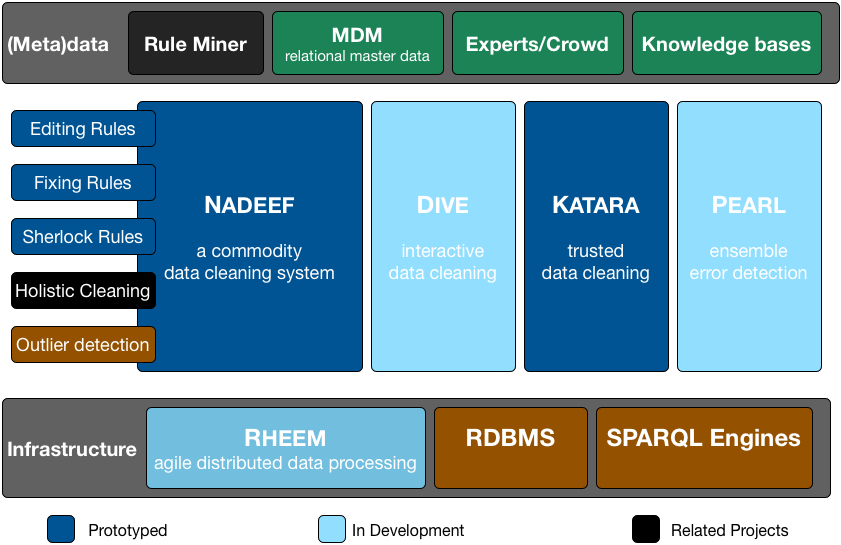
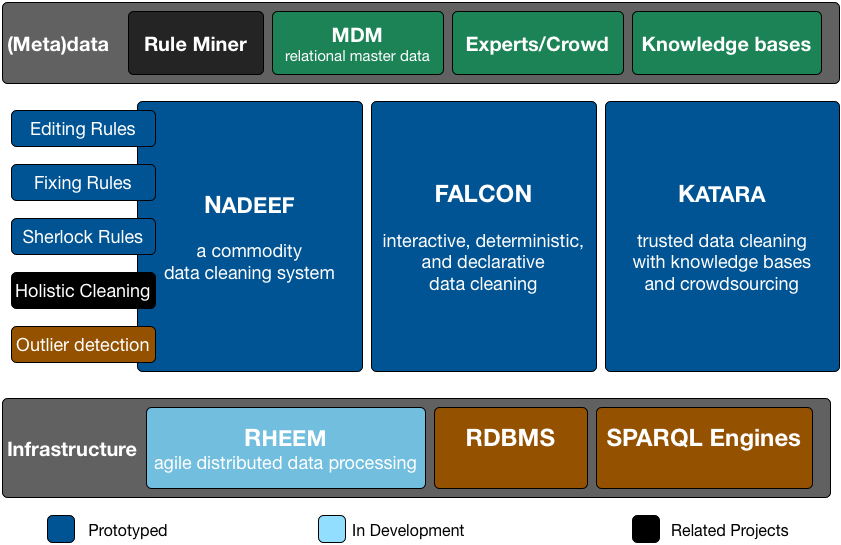
add FALCON

Changed region(s): [[0.4328, 0.1872, 1.0, 0.6862]]

diff --git a/dcprojects/dive.html b/dcprojects/dive.html
@@ -6,7 +6,7 @@
 -->
 <html>
 	<head>
-		<title>DIVE</title>
+		<title>FALCON</title>
 		<meta http-equiv="content-type" content="text/html; charset=utf-8" />
 		<meta name="description" content="" />
 		<meta name="keywords" content="" />
@@ -40,7 +40,7 @@
 					
 				<!-- Logo -->
 					<div id="logo">
-						<h1><a href="#">DIVE</a></h1>
+						<h1><a href="#">FALCON</a></h1>
 						<span style="color:black">An interactive data cleaning system</span>
 					</div>
 				
@@ -53,7 +53,7 @@
 							<li><a href="srules.html">Sherlock Rules</a></li>
 							<li><a href="erules.html">Editing Rules</a></li>
 							<li><a href="currency.html">Data Currency</a></li>
-							<li class="active"><a href="dive.html">DIVE</a></li>
+							<li class="active"><a href="dive.html">FALCON</a></li>
 							<li><a href="resources.html">Resources</a></li>
 						</ul>	
 					</nav>
@@ -61,25 +61,36 @@
 		</div>
 	<!-- Header -->
 			
-	<!-- Main -->
+		<!-- Main -->
 		<div id="main">
 			<div class="container">
 				<div class="row">
-
 					<!-- Content -->
-						<div id="content" class="12u skel-cell-important">
-							<section>
-								<header>
-									<h2>Under Construction</h2>
-								</header>
-							</section>
-						</div>
-					<!-- /Content -->
-						
-				</div>
-			
+					<div id="content" class="12u skel-cell-important">
+						<section>
+							<header>
+								<h2>Abstract</h2>
+							</header>
+							<p>Falcon is an interactive, deterministic, and declarative data cleaning system, which uses SQL update (SQLU) queries as the language to repair data. Falcon does not rely on the existence of a set of pre-defined data quality rules. On the contrary, it encourages users to explore the data, identify possible problems, and make updates to fix them. Bootstrapped by one user update, Falcon guesses a set of possible SQL update queries that can be used to repair the data. The main technical challenge addressed in this work consists in finding a set of SQL update queries that is minimal in size and at the same time fixes the largest number of errors in the data. We formalize this problem as a search in a lattice-shaped space. To guarantee that the chosen updates are semantically correct, FALCON navigates the lattice by interacting with users to gradually validate the set of SQL update queries. Besides using traditional one-hop based traverse algorithms (e.g., BFS or DFS), we describe novel multi-hop search algorithms such that Falcon can dive over the lattice and conduct the search efficiently. Our novel search strategy is coupled with a number of optimization techniques to further prune the search space and efficiently maintain the lattice. </p>
+						</section>
+						<section>
+							<p>More examples will be provided later. At this moment please find more details from the paper.</p>				
+						</section>
+						<section>
+							<header>
+								<h2>Publications</h2>
+							</header>
+							<p>
+								<br><b><i>Interactive and Deterministic Data Cleaning: A Tossed Stone Raises a Thousand Ripples </i></b>
+								<br><font color="blue">ACM SIGMOD Conference on Management of Data (SIGMOD), San Francisco, USA, 2016 </font>
+								<br><i>Jian He, Enzo Veltri, Donatello Santoro, Guoliang Li, Giansalvatore Mecca, Paolo Papotti, and Nan Tang</i>	
+							</p>
+						</section>
+					</div>
+					<!-- /Content -->						
+				</div>			
 			</div>
 		</div>
-	<!-- Main -->
+		<!-- Main -->
 	</body>
 </html>

diff --git a/dcprojects/index.html b/dcprojects/index.html
@@ -56,7 +56,7 @@
 					<li><a href="srules.html">Sherlock Rules</a></li>
 					<li><a href="erules.html">Editing Rules</a></li>
 					<li><a href="currency.html">Data Currency</a></li>
-					<li><a href="dive.html">DIVE</a></li>
+					<li><a href="dive.html">FALCON</a></li>
 					<li><a href="resources.html">Resources</a></li>
 				</ul>
 			</nav>
@@ -88,8 +88,9 @@
 							<h2>Short Description</h2> 
 						</header>
 						<p><b>NADEEF</b> is a data cleaning platform, which abstracts a set of programming APIs such that heterogeneous data quality rules (<i>e.g.,</i> conditional functional dependencies, editing rules and sherlock rules) can be implememted in a homogeneous way. NADEEF also provides a runtime execution engine to detect data violations. We also provide a graphical HTML5 user interface to help users navigate and understand their data in order to improve the rule quality.</p>
+						<p><b>FALCON</b> is an interactive, deterministic, and declarative data cleaning system.</p>
 						<p><b>KATARA</b> is a trusted data cleaning system powered by knowledge bases and crowdsourcing.</p>
-						<p><b>DIVE</b> is an interactive data cleaning.</p>
+						
 
 						<br /><br /><br />
 						<div class="aligncenter">

diff --git a/dcprojects/currency.html b/dcprojects/currency.html
@@ -52,7 +52,7 @@
 						<li><a href="srules.html">Sherlock Rules</a></li>
 						<li><a href="erules.html">Editing Rules</a></li>
 						<li class="active"><a href="currency.html">Data Currency</a></li>
-						<li><a href="dive.html">DIVE</a></li>
+						<li><a href="dive.html">FALCON</a></li>
 						<li><a href="resources.html">Resources</a></li>
 					</ul>
 				</nav>

diff --git a/dcprojects/erules.html b/dcprojects/erules.html
@@ -53,7 +53,7 @@
 						<li><a href="srules.html">Sherlock Rules</a></li>
 						<li class="active"><a href="erules.html">Editing Rules</a></li>
 						<li><a href="currency.html">Data Currency</a></li>
-						<li><a href="dive.html">DIVE</a></li>
+						<li><a href="dive.html">FALCON</a></li>
 						<li><a href="resources.html">Resources</a></li>
 					</ul>
 				</nav>

diff --git a/dcprojects/resources.html b/dcprojects/resources.html
@@ -53,7 +53,7 @@
 						<li><a href="srules.html">Sherlock Rules</a></li>
 						<li><a href="erules.html">Editing Rules</a></li>
 						<li><a href="currency.html">Data Currency</a></li>
-						<li><a href="dive.html">DIVE</a></li>
+						<li><a href="dive.html">FALCON</a></li>
 						<li class="active"><a href="resources.html">Resources</a></li>
 					</ul>
 				</nav>

diff --git a/dcprojects/srules.html b/dcprojects/srules.html
@@ -51,7 +51,7 @@
 						<li class="active"><a href="srules.html">Sherlock Rules</a></li>
 						<li><a href="erules.html">Editing Rules</a></li>
 						<li><a href="currency.html">Data Currency</a></li>
-						<li><a href="dive.html">DIVE</a></li>
+						<li><a href="dive.html">FALCON</a></li>
 						<li><a href="resources.html">Resources</a></li>
 					</ul>
 				</nav>

diff --git a/dcprojects/katara.html b/dcprojects/katara.html
@@ -52,7 +52,7 @@
 						<li><a href="srules.html">Sherlock Rules</a></li>
 						<li><a href="erules.html">Editing Rules</a></li>
 						<li><a href="currency.html">Data Currency</a></li>
-						<li><a href="dive.html">DIVE</a></li>
+						<li><a href="dive.html">FALCON</a></li>
 						<li><a href="resources.html">Resources</a></li>
 					</ul>	
 				</nav>

diff --git a/dcprojects/nadeef.html b/dcprojects/nadeef.html
@@ -54,7 +54,7 @@
 						<li><a href="srules.html">Sherlock Rules</a></li>
 						<li><a href="erules.html">Editing Rules</a></li>
 						<li><a href="currency.html">Data Currency</a></li>
-						<li><a href="dive.html">DIVE</a></li>
+						<li><a href="dive.html">FALCON</a></li>
 						<li><a href="resources.html">Resources</a></li>
 					</ul>
 				</nav>
